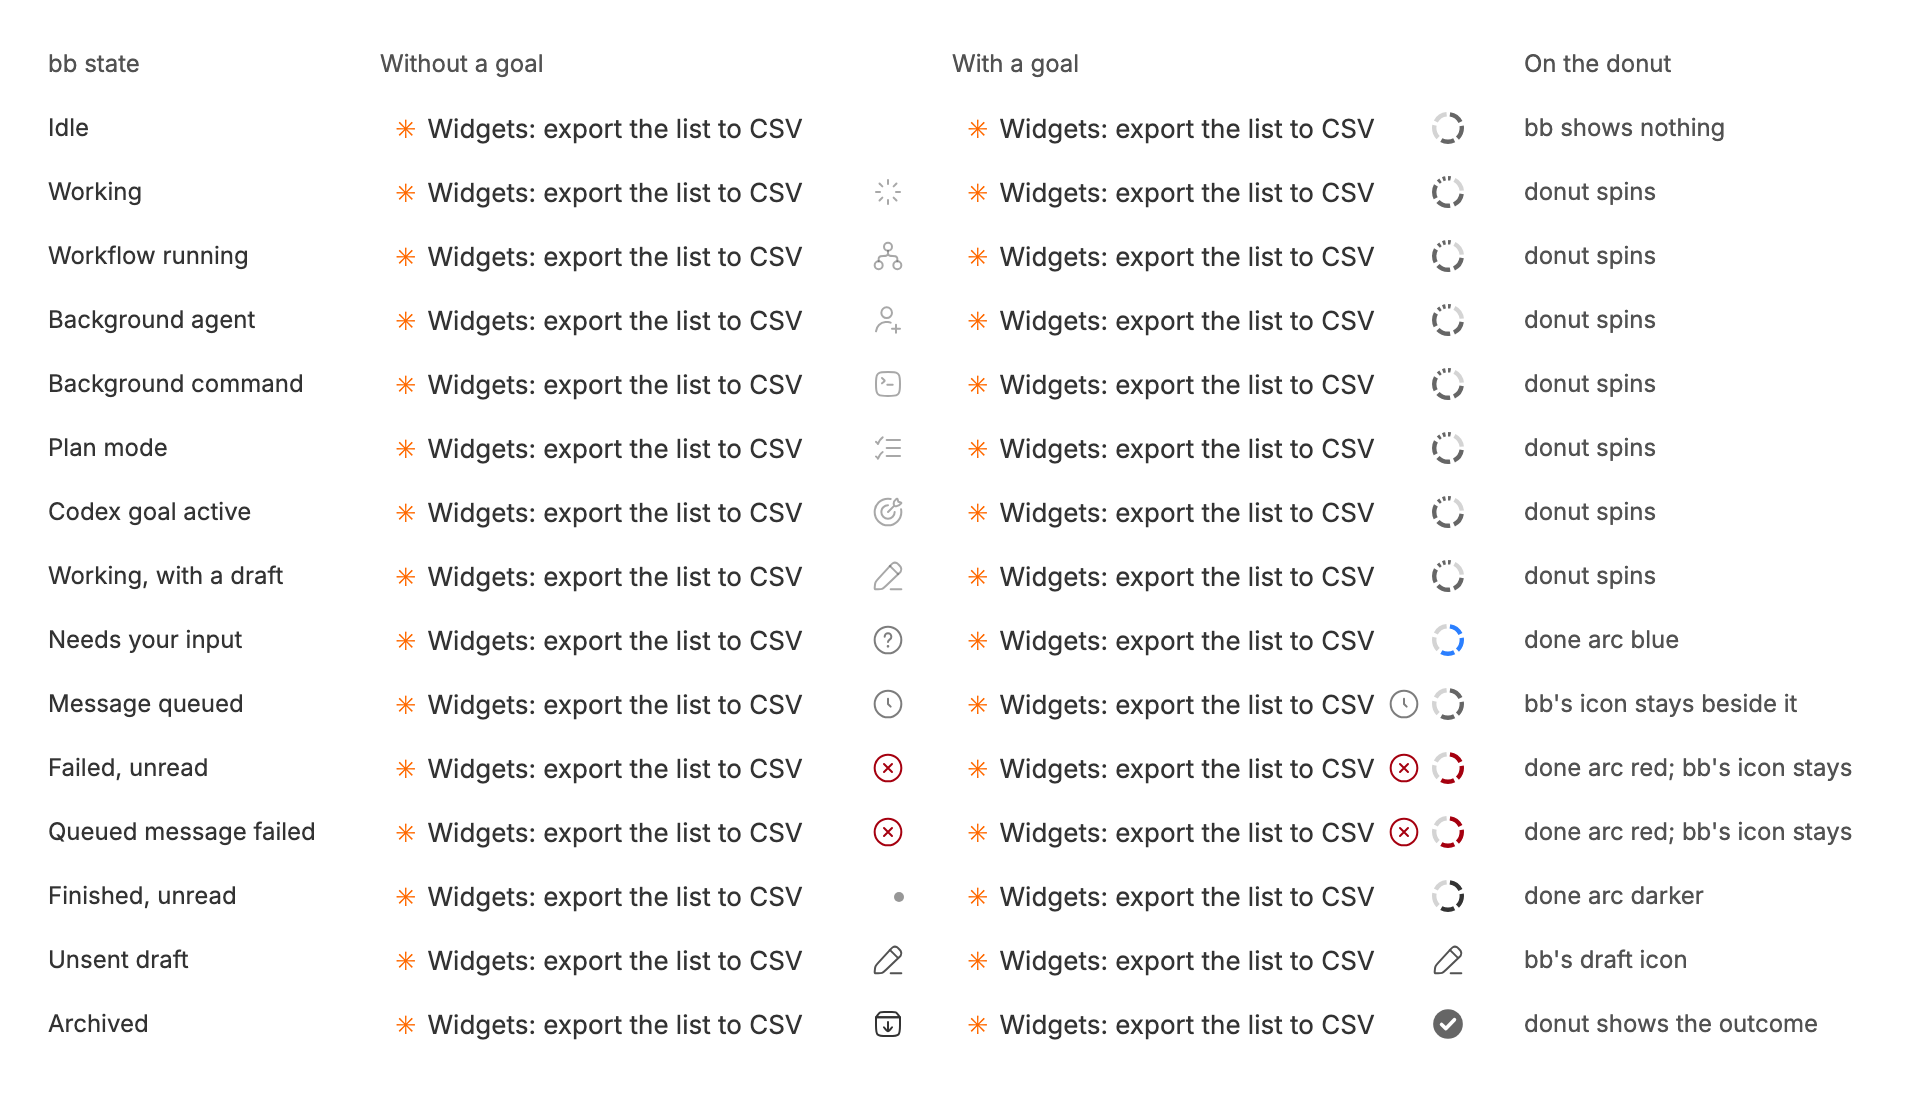
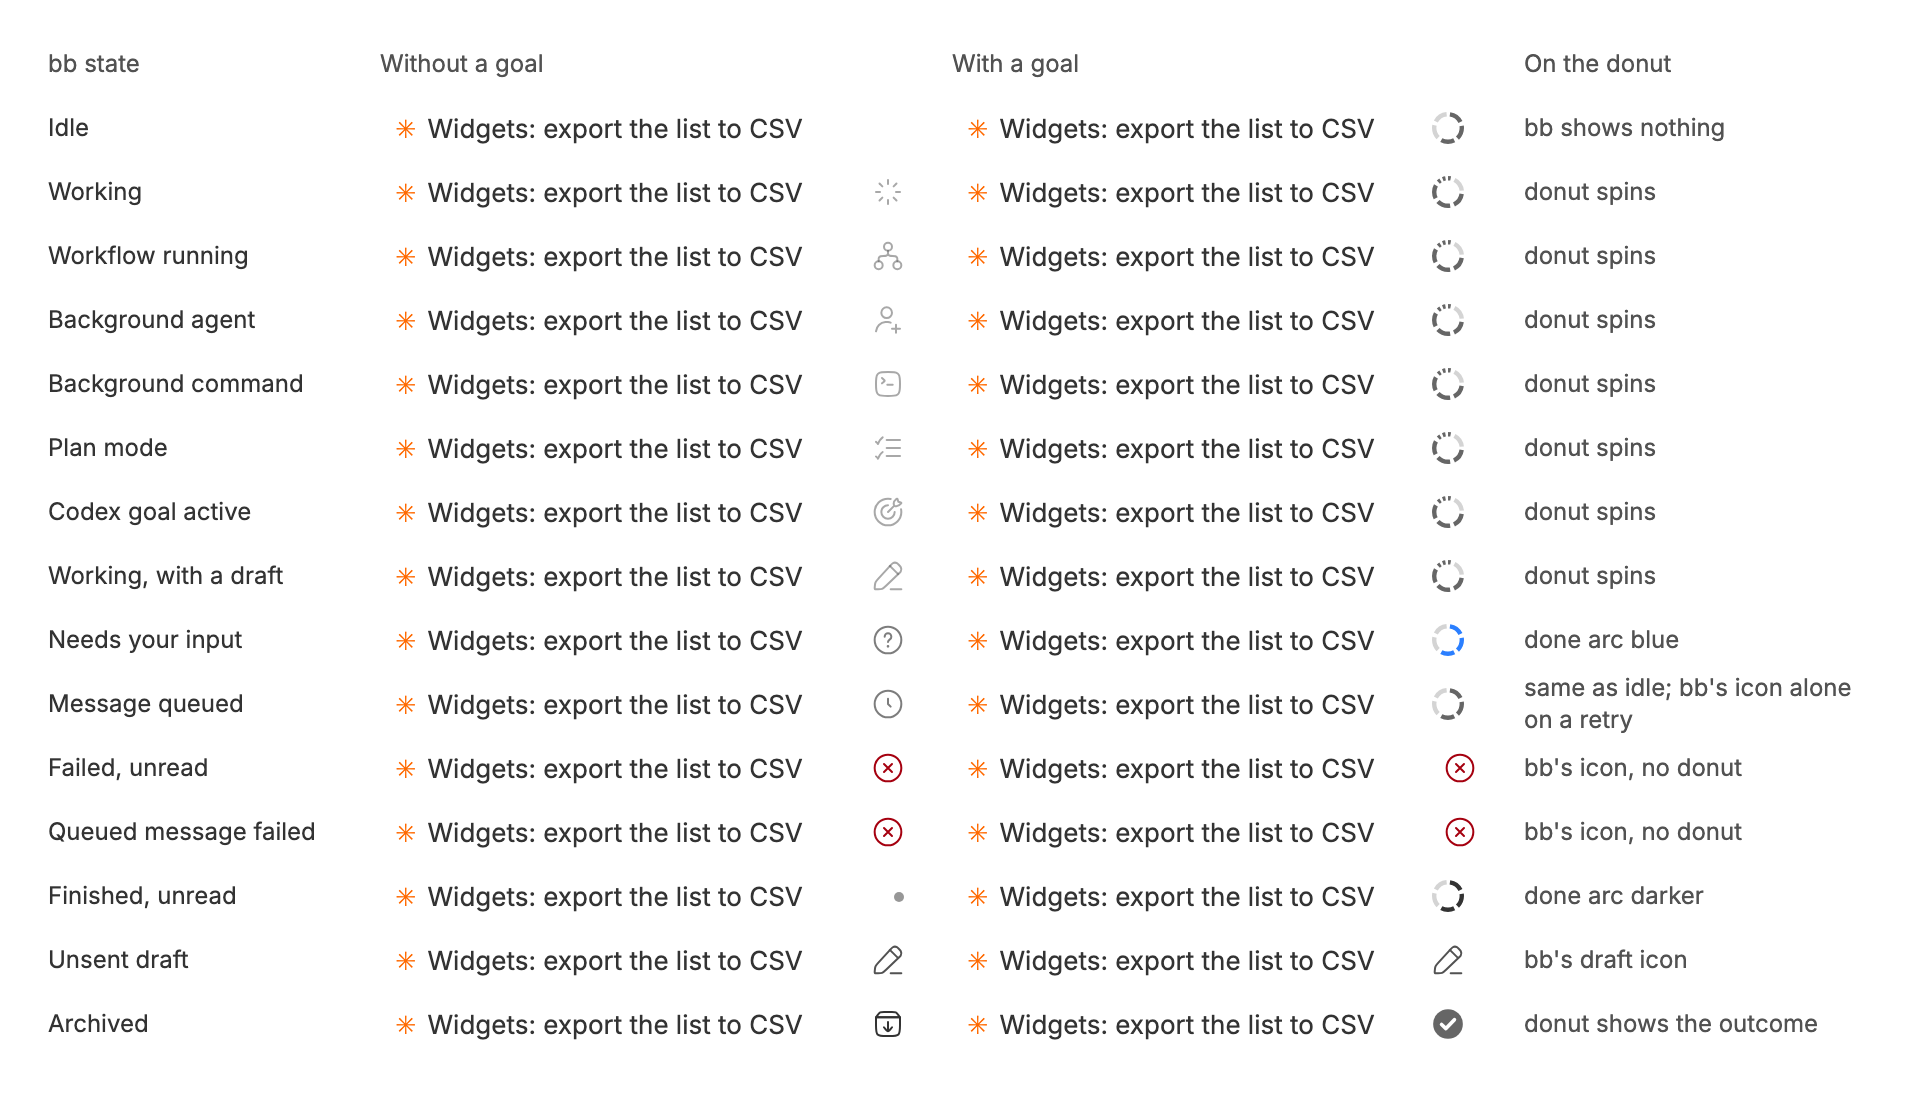
4124d9b Tokenomics: pass threadIds to threads.list as an array, and log when the call fails
danielbachhuber/bb-plugins@4124d9bc290335bc2517a82abace22d7d62d84f0

Captured with uncommitted changes in the bb-plugins checkout.

diff --git a/tokenomics/README.md b/tokenomics/README.md
@@ -52,7 +52,7 @@ The Goals section before any thread has recorded a goal.
 
 ### Every bb row state
 
-Every bb sidebar row state: bb's icon, and the goal donut that takes its place on a thread with a goal (3 of 5 stages done). The done arc takes bb's colour, the donut spins while working (a still shows it mid-turn), and a draft keeps bb's own icon. A failure or a queued message, such as a turn waiting to retry after a provider error, keeps bb's icon beside the donut.
+Every bb sidebar row state: bb's icon, and the goal donut that takes its place on a thread with a goal (3 of 5 stages done). The done arc takes bb's colour, the donut spins while working (a still shows it mid-turn), and a draft keeps bb's own icon. A failed turn, including one waiting to retry after a provider error, shows bb's icon alone.
 
 ![Every bb row state](goals--every-bb-row-state.png)
 
